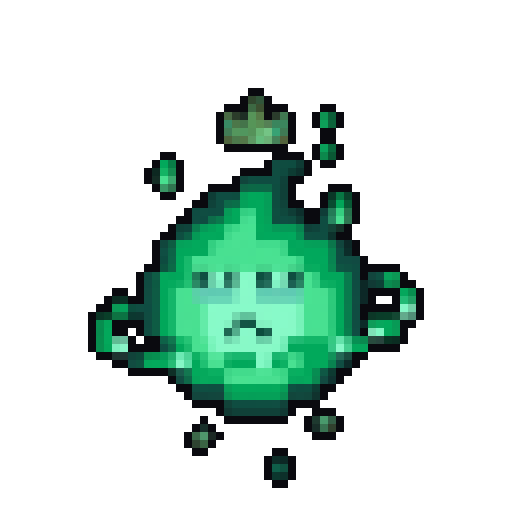
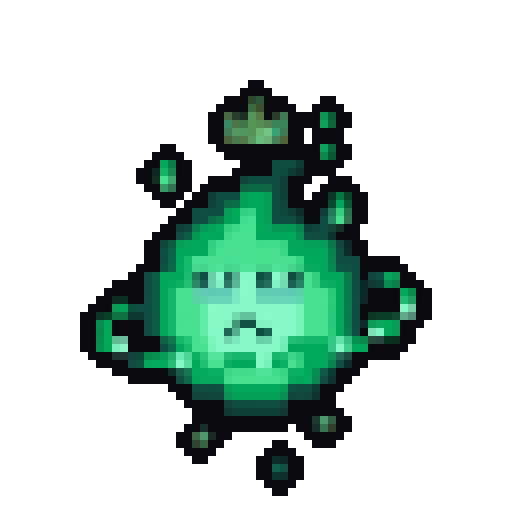
feat(ui): implement pure retro 2-frame pixel-stepped bobbing for Cuprum and ring

diff --git a/frontend/src/components/CuprumCompanionPanel.tsx b/frontend/src/components/CuprumCompanionPanel.tsx
@@ -291,21 +291,7 @@ export function CuprumCompanionPanel({
 
   // --- Dynamic Retro Pixel Animation State Machine ---
   useEffect(() => {
-    // Inject floating hover keyframes dynamically to bypass Vite CSS bundle extraction
-    const styleId = 'cuprum-float-style';
-    if (typeof document !== 'undefined' && !document.getElementById(styleId)) {
-      const style = document.createElement('style');
-      style.id = styleId;
-      style.textContent = `
-        @keyframes cuprumPetFloat {
-          0%, 100% { transform: translateY(0px); }
-          50% { transform: translateY(-5px); }
-        }
-      `;
-      document.head.appendChild(style);
-    }
-
-    // Continuous 2-frame fire particle floating animation
+    // Continuous 2-frame pure retro pixel stepped animation
     animIntervalRef.current = window.setInterval(() => {
       setExpression((prev) => (prev === 'idle-2' ? 'idle-1' : 'idle-2'));
     }, 600);
@@ -342,8 +328,8 @@ export function CuprumCompanionPanel({
     }, 280);
   };
 
-  const currentWebp = `/assets/cuprum/${moodMeta.prefix}-${expression}.webp?v=retro-outline-v3`;
-  const currentPng = `/assets/cuprum/${moodMeta.prefix}-${expression}.png?v=retro-outline-v3`;
+  const currentWebp = `/assets/cuprum/${moodMeta.prefix}-${expression}.webp?v=retro-outline-v4`;
+  const currentPng = `/assets/cuprum/${moodMeta.prefix}-${expression}.png?v=retro-outline-v4`;
 
   return (
     <div
@@ -427,7 +413,6 @@ export function CuprumCompanionPanel({
               style={{
                 width: 140,
                 height: 140,
-                animation: 'cuprumPetFloat 3s cubic-bezier(0.42, 0, 0.58, 1) infinite',
               }}
             >
               <picture>
